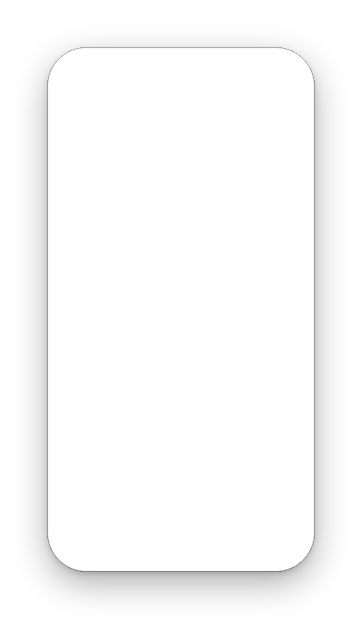
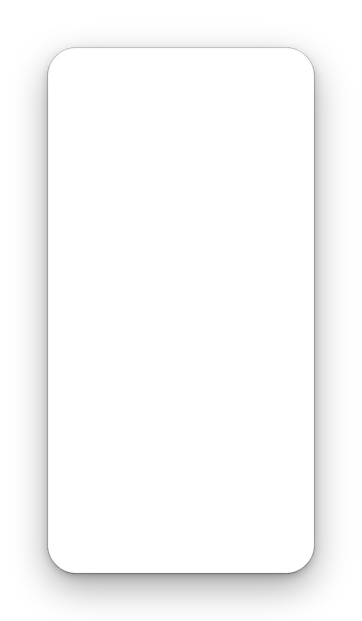
TV glass, batch 2: sheets opaque (94 % showed the page's words on the Mi TV), the thicker rim of light for sheets and menus, the softer three-part shadow, a raised body for the genre popup, a 28 corner for the filter pane

diff --git a/tv-native/src/glass.ts b/tv-native/src/glass.ts
@@ -9,12 +9,11 @@
 // at the foot), a quiet sheen in the upper half, a soft shadow.
 //
 // What it is not: see-through. A TV panel has no blur behind it, and without a
-// blur a 6 % see-through shows the page as sharp ghost letters and posters
-// under the words (photographed on the Mi TV for the old rail, simulated again
-// for this body at 94 % and 97 %). So:
-//   - a pane with NOTHING dimming the page behind it is OPAQUE  (glassPane);
-//   - a sheet that sits on the 72 % wash takes the recipe's 94 % (glassSheet) -
-//     through the wash the ghost is below what the eye sees.
+// blur any see-through shows the page as SHARP ghost letters and posters under
+// the words. Photographed on the Mi TV: the old rail at 97 %, and this body at
+// the recipe's 94 % on a sheet over its 72 % wash - the title page's own words
+// ("written and directed by ...") stood readable inside the sheet. So every
+// pane here is OPAQUE; the glass is in the rim, the sheen and the shadow.
 //
 // Cost: borders and CSS gradients are drawn into the view's own background once;
 // nothing here animates and nothing is added per frame. A blurred boxShadow is
@@ -25,8 +24,11 @@
 
 /** The pane's body: rgb(40,40,46). */
 export const BODY = 'rgb(40,40,46)';
-/** The same body over the sheet's wash: 94 %. */
-export const BODY_OVER_WASH = 'rgba(40,40,46,0.94)';
+/**
+ * A pane that opens ON another pane (the genre popup over the filter panel): one
+ * step lighter, or the two bodies run into each other. White is 12.4:1 on it.
+ */
+export const BODY_RAISED = 'rgb(52,52,58)';
 
 /** What is written on glass. */
 export const ink = {
@@ -40,53 +42,91 @@ export const ink = {
   on: '#B9B0FF',
 } as const;
 
-// The light on the pane, three layers in one background (dp stops):
+const SHEEN = 'linear-gradient(180deg, rgba(255,255,255,0.05) 0%, rgba(255,255,255,0) 48%)';
+
+// The light on a pane of the CHROME (the rail, the filter panel), three layers
+// in one background (dp stops):
 //   the glow under the top hairline   white 18 % -> 0 over 9 dp
 //   the glow over the foot line       white  8 % -> 0 over 8 dp
 //   the sheen                         white  5 % -> 0 at 48 % of the height
 const LIGHT =
   'linear-gradient(180deg, rgba(255,255,255,0.18) 0px, rgba(255,255,255,0) 9px), ' +
   'linear-gradient(0deg, rgba(255,255,255,0.08) 0px, rgba(255,255,255,0) 8px), ' +
-  'linear-gradient(180deg, rgba(255,255,255,0.05) 0%, rgba(255,255,255,0) 48%)';
-// A small pane (a popup, a toast): the sheen only - a 9 dp glow would fill it.
+  SHEEN;
+// The light on a MENU or a SHEET - a thicker rim, as the website's second pass
+// gave them: it is what tells the pane from the page now that nothing shows
+// through it.
+//   the glow under the top line       white 22 % -> 0 over 15 dp
+//   a faint glow down each side       white  7 % -> 0 over 12 dp
+//   the glow over the foot line       white 10 % -> 0 over 13 dp   (not on a sheet that stands on the screen's foot)
+//   the sheen
+const GLOW_TOP = 'linear-gradient(180deg, rgba(255,255,255,0.22) 0px, rgba(255,255,255,0) 15px)';
+const GLOW_SIDES =
+  'linear-gradient(90deg, rgba(255,255,255,0.07) 0px, rgba(255,255,255,0) 12px), ' +
+  'linear-gradient(270deg, rgba(255,255,255,0.07) 0px, rgba(255,255,255,0) 12px)';
+const GLOW_FOOT = 'linear-gradient(0deg, rgba(255,255,255,0.10) 0px, rgba(255,255,255,0) 13px)';
+const LIGHT_MENU = GLOW_TOP + ', ' + GLOW_SIDES + ', ' + GLOW_FOOT + ', ' + SHEEN;
+const LIGHT_FOOT_SHEET = GLOW_TOP + ', ' + GLOW_SIDES + ', ' + SHEEN;
+// A toast: the sheen only - it is 40 dp tall, a 15 dp glow would fill it.
 const LIGHT_SMALL = 'linear-gradient(180deg, rgba(255,255,255,0.07) 0%, rgba(255,255,255,0) 60%)';
 
-/** The rim: a bright hairline on top, a dimmer one at the foot, barely a line at the sides. */
+/** The rim of the chrome: a bright hairline on top, a dimmer one at the foot, barely a line at the sides. */
 export const rim = {
   borderWidth: 1,
   borderColor: 'rgba(255,255,255,0.055)',
   borderTopColor: 'rgba(255,255,255,0.28)',
   borderBottomColor: 'rgba(255,255,255,0.12)',
 } as const;
-/** The rim of a small thing: thinner light, no glow. */
-export const rimThin = {
+/** The rim of a menu, a sheet, a toast: the same lines, brighter. */
+export const rimMenu = {
   borderWidth: 1,
-  borderColor: 'rgba(255,255,255,0.06)',
-  borderTopColor: 'rgba(255,255,255,0.20)',
-  borderBottomColor: 'rgba(255,255,255,0.07)',
+  borderColor: 'rgba(255,255,255,0.075)',
+  borderTopColor: 'rgba(255,255,255,0.36)',
+  borderBottomColor: 'rgba(255,255,255,0.16)',
 } as const;
 
-/** The shadow of a pane that STANDS STILL (never on one that slides or scales). */
-export const SHADOW = '0 12px 32px rgba(0,0,0,0.32), 0 2px 6px rgba(0,0,0,0.20), 0 0 0 1px rgba(0,0,0,0.26)';
+/**
+ * The shadow of a pane that STANDS STILL (never on one that slides or scales):
+ * a soft one, a near one, a tight one, and a dark hairline just outside the rim.
+ */
+export const SHADOW =
+  '0 14px 34px rgba(0,0,0,0.34), 0 3px 8px rgba(0,0,0,0.22), 0 1px 2px rgba(0,0,0,0.22), 0 0 0 0.5px rgba(0,0,0,0.30)';
 
-/** A pane over the bare page: opaque. Add a radius, and SHADOW if it stands still. */
+/** A pane of the chrome over the bare page (the rail, the filter panel). Add a radius; its shadow is a baked picture. */
 export const glassPane = {
   backgroundColor: BODY,
   ...rim,
   experimental_backgroundImage: LIGHT,
 } as const;
-/** A small pane over the bare page (popup, toast, the player's menus): opaque, thin rim, sheen. */
-export const glassSmall = {
+/** A menu (the player's menus). Add a radius, and SHADOW if it stands still. */
+export const glassMenu = {
   backgroundColor: BODY,
-  ...rimThin,
-  experimental_backgroundImage: LIGHT_SMALL,
+  ...rimMenu,
+  experimental_backgroundImage: LIGHT_MENU,
 } as const;
-/** A sheet on the wash: the body at 94 %, the rim, the light, the shadow. */
+/** A menu that opens on another pane (the genre popup): the raised body. */
+export const glassRaised = {
+  backgroundColor: BODY_RAISED,
+  ...rimMenu,
+  experimental_backgroundImage: LIGHT_MENU,
+} as const;
+/** A sheet in the middle of the screen, on its wash: the menu's glass and the shadow. */
 export const glassSheet = {
-  backgroundColor: BODY_OVER_WASH,
-  ...rim,
-  experimental_backgroundImage: LIGHT,
+  ...glassMenu,
   boxShadow: SHADOW,
+} as const;
+/** A sheet that stands on the screen's foot (X-Ray, a person's page): no foot line, no foot glow. */
+export const glassFootSheet = {
+  backgroundColor: BODY,
+  ...rimMenu,
+  borderBottomWidth: 0,
+  experimental_backgroundImage: LIGHT_FOOT_SHEET,
+} as const;
+/** A toast: the menu's lines and the sheen. */
+export const glassToast = {
+  backgroundColor: BODY,
+  ...rimMenu,
+  experimental_backgroundImage: LIGHT_SMALL,
 } as const;
 
 /**

diff --git a/tv-native/src/components/Overlays.tsx b/tv-native/src/components/Overlays.tsx
@@ -8,7 +8,7 @@ import PersonSheet from './PersonSheet';
 import ReplaceSheet from './ReplaceSheet';
 import RecommendSheet from './RecommendSheet'; // [household]
 import Sheet from './Sheet';
-import {glassPane, glassSmall, ink, SHADOW} from '../glass';
+import {glassFootSheet, glassToast, ink, SHADOW} from '../glass';
 import TrailerFrame, {TrailerState} from './Trailer';
 import {prepareTrailer, ResolvedTrailer} from '../trailers';
 import type {ActionItem} from '../overlay';
@@ -997,13 +997,13 @@ const styles = StyleSheet.create({
     paddingTop: 18,
     paddingHorizontal: 28,
     paddingBottom: 22,
-    // The glass pane (glass.ts): the neutral body, the rim of light, the sheen.
+    // The glass of a sheet that stands on the screen's foot (glass.ts): the
+    // neutral body, the rim of light and its glow, the sheen.
     // Opaque: a bright subtitle line under a 96% panel still read through it.
     // (It carried the player menus' violet-and-green hue; the glass is neutral
     // and the picture behind brings the colour.) The panel rises and scales as
     // it opens, so its shadow is the lighter half of the old one, not a new one.
-    ...glassPane,
-    borderBottomWidth: 0,
+    ...glassFootSheet,
     boxShadow: '0 -12px 32px rgba(0,0,0,0.32)',
   },
   xrGuide: {flexShrink: 1},
@@ -1073,9 +1073,9 @@ const styles = StyleSheet.create({
 
   // toasts — the glass pill, bottom centre, above everything
   toasts: {position: 'absolute', left: 0, right: 0, bottom: 28, alignItems: 'center', gap: 8, zIndex: 600, elevation: 600},
-  // opaque (nothing dims the page under a toast), the thin rim, the still shadow
+  // opaque (nothing dims the page under a toast), the rim's lines, the still shadow
   toast: {
-    ...glassSmall,
+    ...glassToast,
     boxShadow: SHADOW,
     borderRadius: radius.pill,
     flexDirection: 'row',

diff --git a/tv-native/src/playback/Player.tsx b/tv-native/src/playback/Player.tsx
@@ -163,7 +163,7 @@ import {personNow} from '../personSync';
 import {track} from '../usage';
 import {clearImageMemory, isLowRam} from '../perfTier';
 import {RootStackParamList} from '../navigation';
-import {glassSmall, ink, SHADOW} from '../glass';
+import {glassMenu, ink, SHADOW} from '../glass';
 import theme, {useTvMetrics} from '../theme';
 // [android-phone] the phone app draws its own touch controls over this same
 // player (docs/android-phone/PLAN.md); on a TV `PHONE` is false and none of it runs
@@ -6298,8 +6298,8 @@ const styles = StyleSheet.create({
     right: PHONE ? 16 : spacing.pageX,
     bottom: PHONE ? 104 : 124,
     maxHeight: '62%',
-    // THE TV: a small pane of the app's glass (glass.ts, docs/glass-tv.md) - the
-    // neutral body, a thin rim of light, the sheen, a soft shadow. Fully opaque:
+    // THE TV: a menu of the app's glass (glass.ts, docs/glass-tv.md) - the
+    // neutral body, the rim of light and its glow, the sheen, a soft shadow. Fully opaque:
     // at 0.97 a bright cue under the sheet still read through it ("Knox! Sto|p!"
     // - Mi TV, 2026-11-10). It was a navy body with the room's violet and green
     // in it (elia, 2026-10-07: "give the background there a bit hue"); the glass
@@ -6315,7 +6315,7 @@ const styles = StyleSheet.create({
           borderColor: 'rgba(255,255,255,0.10)',
           borderTopColor: 'rgba(255,255,255,0.20)',
         }
-      : {...glassSmall, boxShadow: SHADOW}),
+      : {...glassMenu, boxShadow: SHADOW}),
     borderRadius: radius.l,
     paddingVertical: spacing.md,
     paddingHorizontal: spacing.md,

diff --git a/tv-native/src/screens/Browse.tsx b/tv-native/src/screens/Browse.tsx
@@ -994,24 +994,26 @@ const styles = StyleSheet.create({
     width: PANEL_W,
     zIndex: 101,
   },
-  // The pane: 16 dp round the controls (which sit at 18..252 and 18..513 of the
-  // panel), so it floats clear of the screen's edges like the rail's. Opaque,
+  // The pane: 14-16 dp round the controls (which sit at 18..252 and 18..513 of
+  // the panel), so it floats clear of the screen's edges like the rail's. Its
+  // corner is 28, not the rail's 38: the kicker is plain text in the top-left
+  // corner, and under a 38 corner it sat against the curve (Mi TV). Opaque,
   // like the rail: measured on the Streamer, a 3% see-through reads as ghost
   // posters behind the controls. It was a flat near-black slab to the screen's
   // edge with one hairline on its left.
   pane: {
     position: 'absolute',
-    top: 6,
+    top: 4,
     bottom: 11,
     left: 2,
     right: 32,
-    borderRadius: 38,
+    borderRadius: 28,
     ...glassPane,
   },
   // 48 dp outside the pane on every side
   paneShadow: {
     position: 'absolute',
-    top: 6 - 48,
+    top: 4 - 48,
     bottom: 11 - 48,
     left: 2 - 48,
     right: 32 - 48,

diff --git a/tv-native/src/components/Picker.tsx b/tv-native/src/components/Picker.tsx
@@ -9,7 +9,7 @@ import React, {useEffect, useRef, useState} from 'react';
 import {View, Text, ScrollView, StyleSheet, TVFocusGuideView, BackHandler} from 'react-native';
 import Focusable from './Focusable';
 import {useKeyTrap} from '../focus';
-import {glassSmall, ink, SHADOW} from '../glass';
+import {glassRaised, ink, SHADOW} from '../glass';
 import theme, {useTvMetrics} from '../theme';
 
 const {colors, radius} = theme;
@@ -186,9 +186,11 @@ const styles = StyleSheet.create({
     minWidth: 200,
     padding: 6,
     borderRadius: 14,
-    // A small pane of the glass (glass.ts): opaque, a thin rim, the sheen, the
-    // soft shadow - it stands still, so the shadow may be a real one.
-    ...glassSmall,
+    // A menu of the glass (glass.ts): opaque, the rim of light, the sheen, the
+    // soft shadow - it stands still, so the shadow may be a real one. The RAISED
+    // body: it opens on the filter pane, and with the pane's own body the two
+    // ran into each other (Mi TV).
+    ...glassRaised,
     boxShadow: SHADOW,
     zIndex: 291,
   },

diff --git a/tv-native/src/components/PersonSheet.tsx b/tv-native/src/components/PersonSheet.tsx
@@ -28,7 +28,7 @@ import Card, {COMPACT_H, COMPACT_W} from './Card';
 import Focusable from './Focusable';
 import {api, artSrc, HeroItem, LIST_ADDED, PersonCredit, PersonData, StreamRef, XrayPerson} from '../api';
 import {useFocusFallback, useKeyTrap} from '../focus';
-import {glassPane, ink} from '../glass';
+import {glassFootSheet, ink} from '../glass';
 import {rootNav} from '../rootNav';
 import {showToast} from '../toast';
 import {track} from '../usage';
@@ -360,9 +360,8 @@ const styles = StyleSheet.create({
     paddingTop: 18,
     paddingHorizontal: 28,
     paddingBottom: 18,
-    // the glass pane, as X-Ray's (glass.ts): neutral body, rim of light, sheen
-    ...glassPane,
-    borderBottomWidth: 0,
+    // the glass, as X-Ray's (glass.ts): neutral body, rim of light, sheen
+    ...glassFootSheet,
   },
   guide: {flexShrink: 1},
   head: {flexDirection: 'row', alignItems: 'center', gap: spacing.md},

diff --git a/tv-native/src/components/Sheet.tsx b/tv-native/src/components/Sheet.tsx
@@ -70,9 +70,10 @@ export default function Sheet({
   );
 }
 
-// The glass surface of a sheet: the neutral body at 94 % over the wash, a rim of
-// light, a quiet sheen, a soft shadow (glass.ts; docs/glass-tv.md). It was a
-// blue-black slab with one bright top edge.
+// The glass surface of a sheet: the neutral body, a rim of light with its glow,
+// a quiet sheen, a soft shadow (glass.ts; docs/glass-tv.md). Opaque: at the
+// recipe's 94 % the page's own words stood readable inside the sheet (Mi TV).
+// It was a blue-black slab with one bright top edge.
 export const glass = glassSheet;
 
 const styles = StyleSheet.create({

diff --git a/tv-native/tools/gen_glass_shadow.py b/tv-native/tools/gen_glass_shadow.py
@@ -7,9 +7,12 @@ native driver / the native rail view). A blurred boxShadow on a surface that
 moves is re-blurred as it goes; a picture is one texture the box composites. So
 the shadow of the recipe (docs/glass-apple.md section 8) is baked once:
 
-    0 12px 32px rgba(0,0,0,0.32)   the soft one
-    0  2px  6px rgba(0,0,0,0.20)   the near one
-    0  0    0  1px rgba(0,0,0,0.26) the dark line just outside the rim
+    0 14px 34px rgba(0,0,0,0.34)     the soft one
+    0  3px  8px rgba(0,0,0,0.22)     the near one
+    0  1px  2px rgba(0,0,0,0.22)     the tight one
+    0  0    0  0.5px rgba(0,0,0,0.30) the dark hairline just outside the rim
+                                     (one device pixel on the Mi TV; at @1x a
+                                     whole pixel at half the strength)
 
 Geometry, in dp: a pane W x H with corner radius R, and MARGIN dp of room on
 every side. The picture is laid out as (W + 2*MARGIN) x (H + 2*MARGIN) with the
@@ -24,13 +27,12 @@ import os
 from PIL import Image, ImageChops, ImageDraw, ImageFilter
 
 MARGIN = 48
-RADIUS = 38
 OUT = os.path.join(os.path.dirname(__file__), '..', 'src', 'assets')
 
-# name, pane width, pane height (the height a 540dp panel gives; stretched otherwise)
+# name, pane width, pane height (the height a 540dp panel gives; stretched otherwise), corner radius
 PANES = [
-    ('glass-pane-shadow', 208, 518),      # NavRail: left 32, top 11, bottom 11
-    ('glass-pane-shadow-wide', 266, 523), # Browse filter panel: left 2, right 32, top 6, bottom 11
+    ('glass-pane-shadow', 208, 518, 38),      # NavRail: left 32, top 11, bottom 11
+    ('glass-pane-shadow-wide', 266, 525, 28), # Browse filter panel: left 2, right 32, top 4, bottom 11
 ]
 
 
@@ -47,16 +49,18 @@ def over(a, b):
     return ImageChops.invert(inv)
 
 
-def bake(name, w, h, scale):
+def bake(name, w, h, radius, scale):
     s = scale
     size = ((w + 2 * MARGIN) * s, (h + 2 * MARGIN) * s)
     x0, y0 = MARGIN * s, MARGIN * s
     x1, y1 = x0 + w * s - 1, y0 + h * s - 1
-    r = RADIUS * s
-    soft = layer(size, (x0, y0 + 12 * s, x1, y1 + 12 * s), r, 0.32, 32, s)
-    near = layer(size, (x0, y0 + 2 * s, x1, y1 + 2 * s), r, 0.20, 6, s)
-    line = layer(size, (x0 - s, y0 - s, x1 + s, y1 + s), r + s, 0.26, 0, s)
-    a = over(over(soft, near), line)
+    r = radius * s
+    soft = layer(size, (x0, y0 + 14 * s, x1, y1 + 14 * s), r, 0.34, 34, s)
+    near = layer(size, (x0, y0 + 3 * s, x1, y1 + 3 * s), r, 0.22, 8, s)
+    tight = layer(size, (x0, y0 + 1 * s, x1, y1 + 1 * s), r, 0.22, 2, s)
+    # half a dp: one pixel at @2x; at @1x one pixel at half the strength
+    line = layer(size, (x0 - 1, y0 - 1, x1 + 1, y1 + 1), r + 1, 0.30 if s >= 2 else 0.15, 0, s)
+    a = over(over(over(soft, near), tight), line)
     # the pane's own box: empty (drawn 4x and scaled down for a clean edge)
     hole = Image.new('L', (size[0] * 4, size[1] * 4), 255)
     ImageDraw.Draw(hole).rounded_rectangle((x0 * 4, y0 * 4, (x1 + 1) * 4 - 1, (y1 + 1) * 4 - 1), radius=r * 4, fill=0)
@@ -69,6 +73,6 @@ def bake(name, w, h, scale):
 
 
 if __name__ == '__main__':
-    for name, w, h in PANES:
+    for name, w, h, radius in PANES:
         for scale in (1, 2):
-            bake(name, w, h, scale)
+            bake(name, w, h, radius, scale)
